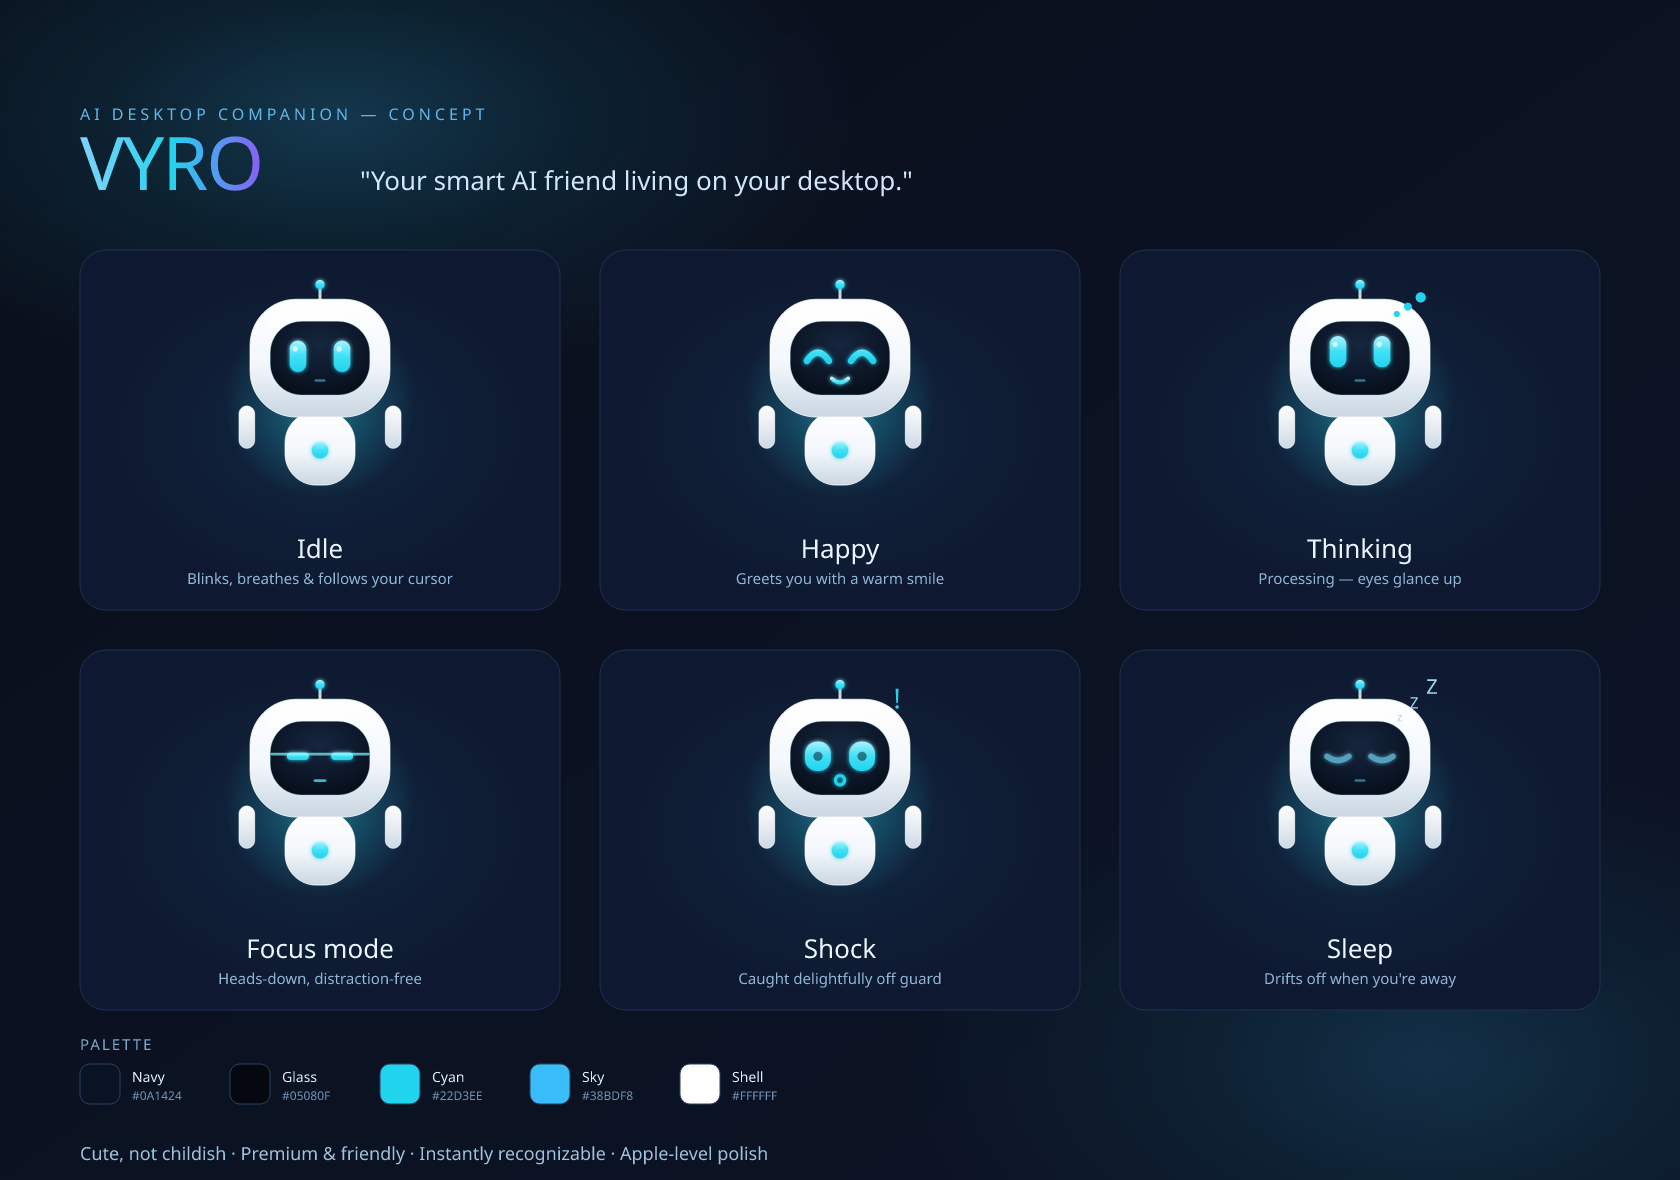
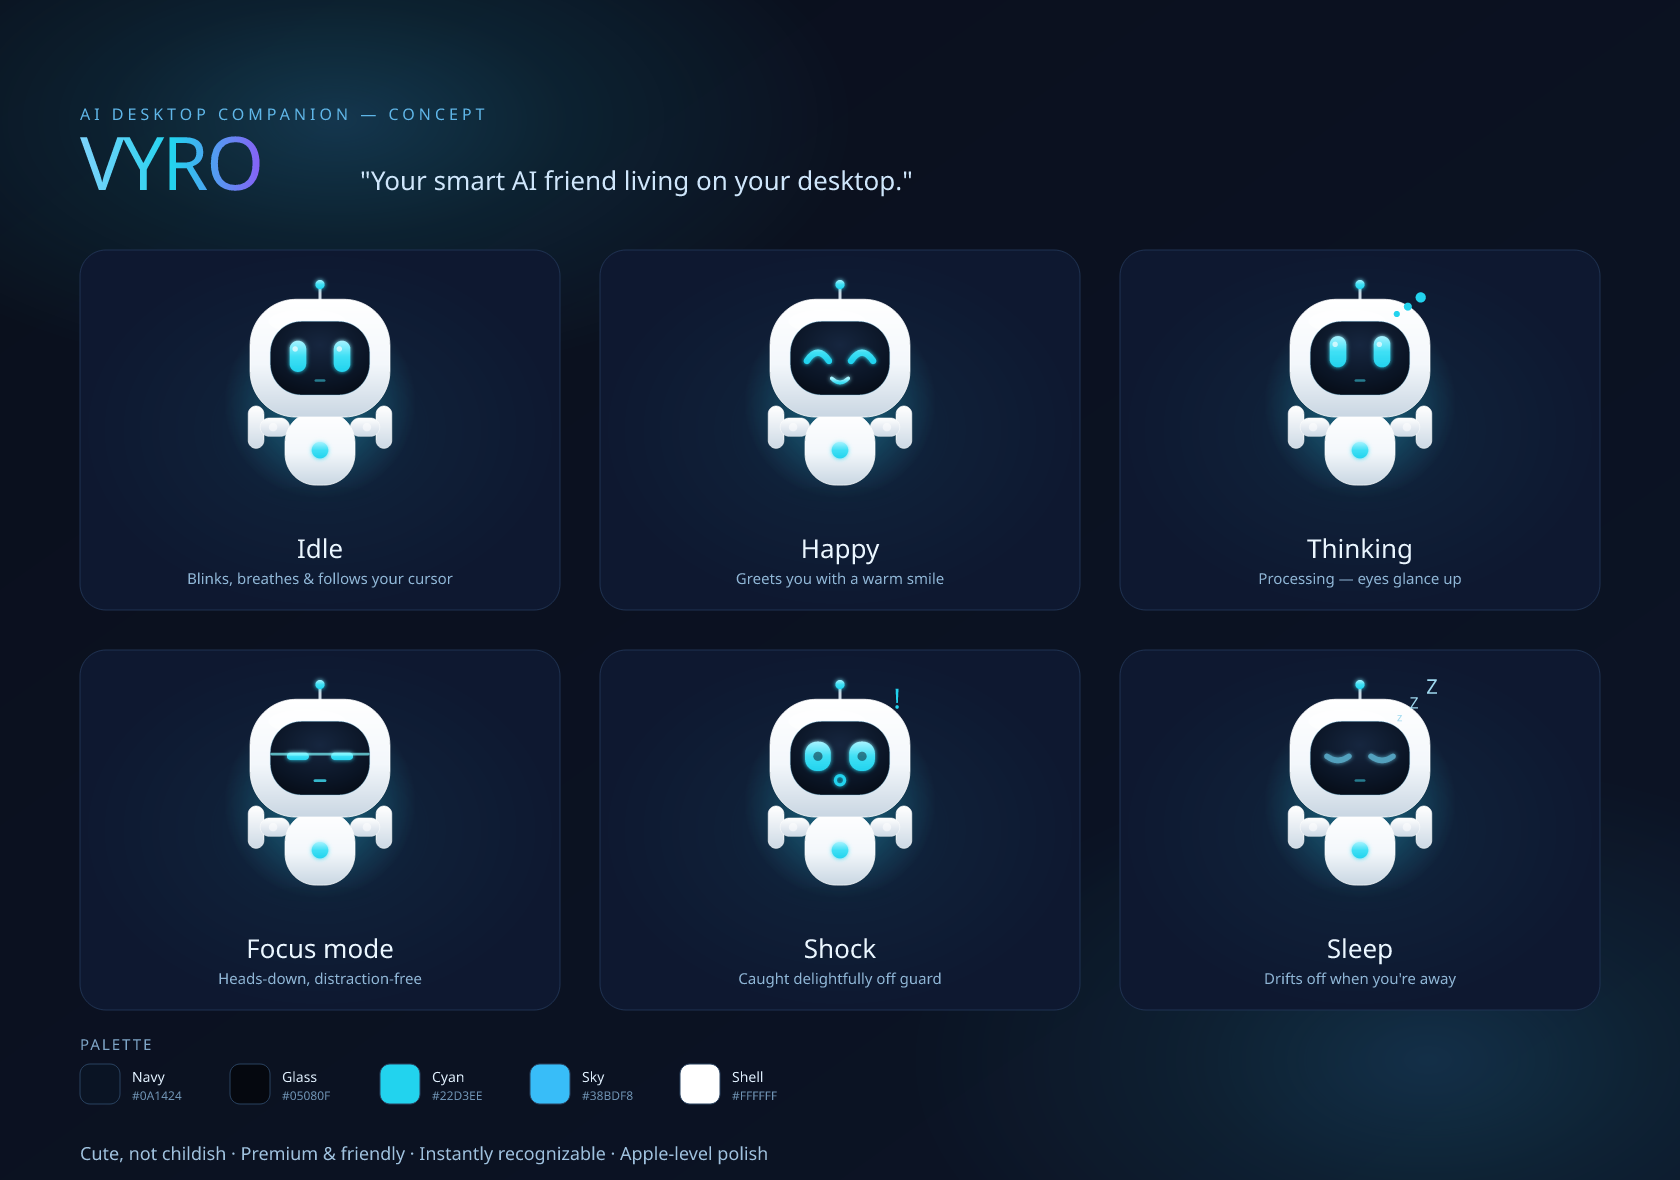
refine(companion): pull arms closer and add shoulder joints
Make the floating arms read as part of one coherent character instead
of detached pieces.

- Move both arms ~30% closer to the torso (per-side gap 33 -> 23 units)
- Add rounded shoulder connectors tucked under the torso that cap the
  arm tops, plus subtle floating ball joints, so the arms visually
  belong to the body
- Place the connectors inside the body group so they bob in sync with
  the torso and stay attached
- Hinge the arm float at the shoulder (transform-origin 50% 25%) and
  soften the sway (7px/6deg -> 6px/4deg) for a connected, balanced feel
- Keep the floating companion style and premium minimal look
- Regenerate concept board to match

diff --git a/app/components/VyroCompanion.tsx b/app/components/VyroCompanion.tsx
@@ -7,9 +7,10 @@ import styles from "./VyroCompanion.module.css";
  * VYRO — premium animated AI desktop companion.
  *
  * Design language: oversized rounded white shell, dark glass face,
- * expressive cyan eyes, a small floating body, two detached side arms,
- * and a soft blue glow. Built as a single inline SVG so it stays crisp
- * at any size and every part can be animated independently.
+ * expressive cyan eyes, a small floating body, two side arms linked to
+ * the torso by rounded shoulder joints, and a soft blue glow. Built as a
+ * single inline SVG so it stays crisp at any size and every part can be
+ * animated independently.
  *
  * Behaviours:
  *  - Natural randomized blinking (suppressed while asleep / shocked)
@@ -233,16 +234,24 @@ export default function VyroCompanion({
         {/* Ground shadow */}
         <ellipse className={styles.shadow} cx="110" cy="246" rx="56" ry="9" fill="#0b2233" opacity="0.18" />
 
-        {/* Floating side arms (detached) */}
+        {/* Floating side arms — pulled ~30% closer to the torso and linked by shoulder joints */}
         <g className={`${styles.arm} ${styles.armLeft}`}>
-          <rect x="22" y="150" width="17" height="46" rx="8.5" fill="url(#vyroShellArm)" stroke="#ffffff" strokeOpacity="0.7" />
+          <rect x="32" y="150" width="17" height="46" rx="8.5" fill="url(#vyroShellArm)" stroke="#ffffff" strokeOpacity="0.7" />
         </g>
         <g className={`${styles.arm} ${styles.armRight}`}>
-          <rect x="181" y="150" width="17" height="46" rx="8.5" fill="url(#vyroShellArm)" stroke="#ffffff" strokeOpacity="0.7" />
+          <rect x="171" y="150" width="17" height="46" rx="8.5" fill="url(#vyroShellArm)" stroke="#ffffff" strokeOpacity="0.7" />
         </g>
 
-        {/* Floating body */}
+        {/* Floating body — rounded shoulder connectors bridge the torso to each arm.
+            They live in the body group so they bob in sync with the torso and stay attached. */}
         <g className={styles.body}>
+          {/* shoulder connectors: short rounded links tucked under the torso, capping the arm tops */}
+          <rect className={styles.shoulder} x="45" y="163" width="32" height="20" rx="10" fill="url(#vyroShellArm)" stroke="#ffffff" strokeOpacity="0.55" />
+          <rect className={styles.shoulder} x="143" y="163" width="32" height="20" rx="10" fill="url(#vyroShellArm)" stroke="#ffffff" strokeOpacity="0.55" />
+          {/* subtle floating ball joints */}
+          <circle cx="59" cy="173" r="4.6" fill="#ffffff" opacity="0.55" />
+          <circle cx="161" cy="173" r="4.6" fill="#ffffff" opacity="0.55" />
+          {/* torso */}
           <rect x="72" y="156" width="76" height="80" rx="34" fill="url(#vyroShell)" stroke="#ffffff" strokeOpacity="0.8" />
           <ellipse cx="110" cy="176" rx="26" ry="9" fill="#ffffff" opacity="0.55" filter="url(#vyroSoft)" />
           <circle className={styles.coreLight} cx="110" cy="198" r="9" fill="url(#vyroEye)" filter="url(#vyroEyeGlow)" />

diff --git a/app/components/VyroCompanion.module.css b/app/components/VyroCompanion.module.css
@@ -43,10 +43,16 @@
   animation: vyro-shadow 4.4s ease-in-out infinite;
 }
 
-/* ---------- detached floating arms ---------- */
-.arm {
+/* ---------- shoulder connectors (bob with the body group) ---------- */
+.shoulder {
   transform-box: fill-box;
   transform-origin: center;
+}
+
+/* ---------- floating arms (linked to the torso via shoulder joints) ---------- */
+.arm {
+  transform-box: fill-box;
+  transform-origin: 50% 25%;
   will-change: transform;
 }
 .armLeft {
@@ -225,7 +231,7 @@
     transform: translateY(0) rotate(0deg);
   }
   50% {
-    transform: translateY(-7px) rotate(-6deg);
+    transform: translateY(-6px) rotate(-4deg);
   }
 }
 
@@ -235,7 +241,7 @@
     transform: translateY(0) rotate(0deg);
   }
   50% {
-    transform: translateY(-7px) rotate(6deg);
+    transform: translateY(-6px) rotate(4deg);
   }
 }
 